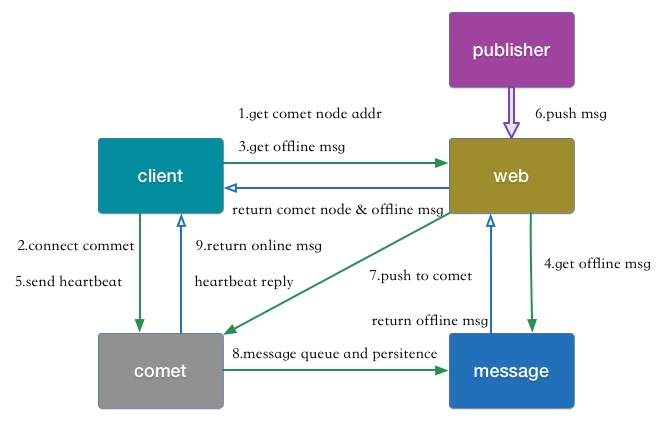
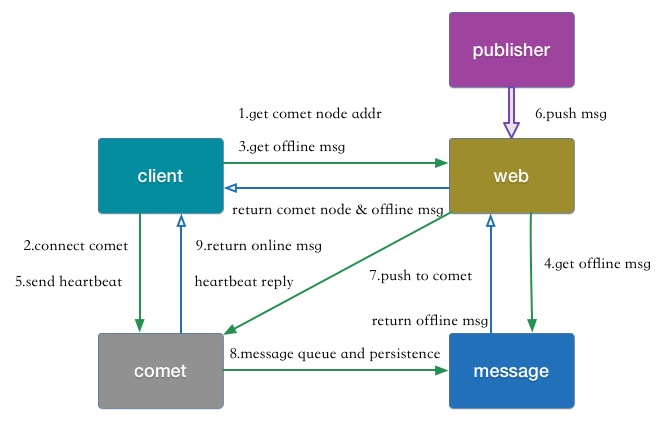
fix spell wrong

Changed region(s): [[0.3308, 0.8318, 0.6617, 0.8626], [0.0301, 0.5545, 0.2105, 0.6161]]

diff --git a/hlist/hlist_test.go b/hlist/hlist_test.go
@@ -95,4 +95,13 @@ func TestHlist(t *testing.T) {
 			fmt.Println(i)
 		}
 	}
+
+	e := l.PushFront(7)
+    if i, ok := e.Value.(int); !ok {
+        t.Error("e.Value assection failed")
+    } else {
+        if i != 7 {
+            t.Error("i value error: %d", i)
+        }
+    }
 }
